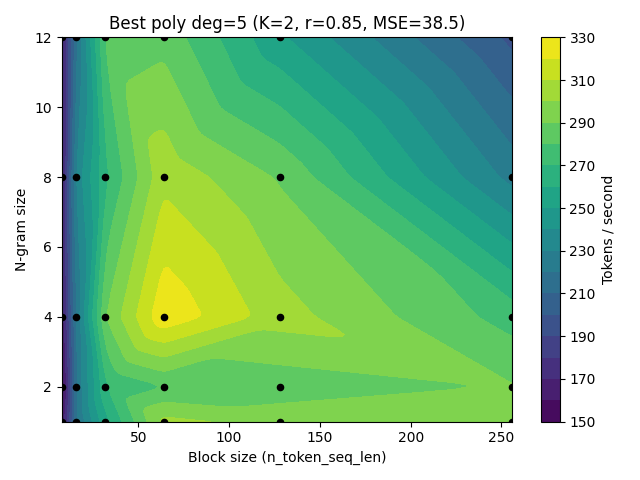
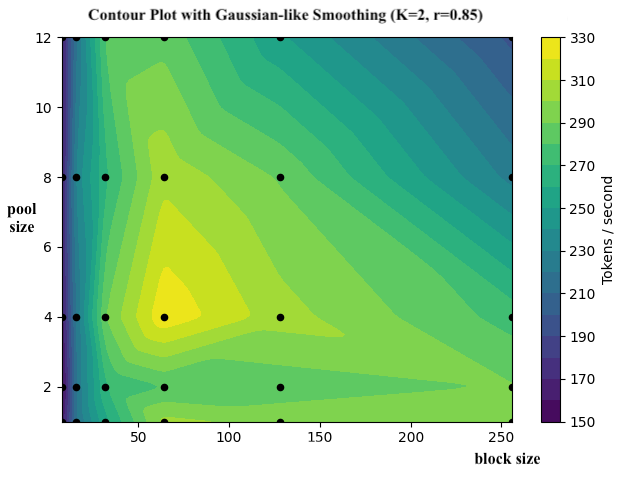
update Jacobi Forcing blog (#48)
* fix badge flex view on mobile; update people, blog

* add lmgame assets

* fix badge display on mobile

* update members: move zheyu and runlong to alumni

* update website

* update people; blog; talks summer 2025

* merge with main

* add dllm

* add d3LLM blog, project, and Yu-Yang's page (#42)

* initialize dllm blog

* almost finished leaderboard

* minor edit

* modify for phones

* fix the bug of leaderboard

* try fix bugs

* Beautify the leaderboard

* further refine figs

* modify d3llm

* Further update demo gif

* minor edit

* Shorter Method part

* further refines

* further refine figs

* minor edit

* minor refine

* further refine style

* initially finish d3llm and text-diffusion blog

* parallel-decoder -> dLLM

* minor edit

* minor edit

* further refine d3LLM's exp

* minor fig refine

* Beautify blogs

* minor edit

* Add illustration fig for d3LLM

* modify img of board

* Update fig

* Update figs

* refine multi-block decoding

* refine figs

* Refine texts

* minor edit

* minor refine

* further refine figs

* refine pseudo-traj

* Update Figs

* minor edit

* further refine pages

* Update gif figure

* minor edit of fig caption

* minor edit

* fix typos

* minor edit

* Update TPS of LLaDA

* Update on Dream's TPS

* minor edit

* Update Badges

* modify hf address

* Add subtitle

* modify subtitle

* modify subtitle

* modify leaderboard

* update figs

* update result

* Update data

* refine leaderboard
[…]

diff --git a/content/blogs/jacobi-forcing/index.md b/content/blogs/jacobi-forcing/index.md
@@ -46,7 +46,7 @@ Most existing work on faster decoding falls into two broad families:
 
 1. **Diffusion-style LLMs (dLLMs):** use non-causal, often bidirectional attention and denoising objectives to update *many* tokens in parallel.
 
-2. **speculative decoding**: keeps a causal AR backbone but relies on a draft model or extra heads that propose multiple future tokens per verification step.
+2. **Speculative decoding (SD)**: keeps a causal AR backbone but relies on a draft model or extra heads that propose multiple future tokens per verification step.
 
 Table 1 (row 2 and row 3) summarizes their pros and cons. At a high-level, dLLMs offer strong parallelism but demand expensive non-causal post-training and custom infrastructure; SD preserves AR quality but adds FLOPs and system complexity for modest net gains. Let’s dive deeper to discuss their trade-offs.
 {{< /justify >}}
@@ -118,13 +118,11 @@ Jacobi Forcing pushes this idea further: we keep the original causal attention a
 
 
 | Method        | Attention      | Parallelism                      | Training Cost | Single-model Decoding (no draft–verifier)   | Efficient KV Reuse        | Real Speedup | Generation Quality         |
-|----------------------|------------------------|-----------------------------------------------|------------------------------------|-------------------------------------------|----------------------|-------------------------------|---------------------------|
-| **AR**        | Causal | None                          | None                                            | No   |  Yes               |No            | Lossless            |
-| **SD** | Causal                 | Yes             | No to Small: Draft model FT        | $\textcolor{red}{\text{No}}$ | Yes     | $<3.5\times$ | Lossless            | 
-| **dLLMs**            | Non-causal    | Yes   | High: from scratch or heavy diffusion FT      | Yes | $\textcolor{red}{\text{No}}$ | $< 3\times$ | Low to near-AR quality |
-| **Jacobi Forcing**   | Causal                 | Yes   | Small: noise-conditioned FT on trajectories | $\textcolor{green}{\text{Yes}}$ |  $\textcolor{green}{\text{Yes}}$   |  $\sim3-4\times$    | near-AR quality   |
-
-**Table 1: Qualitative comparison of parallel decoding methods.**
+|:----------------------:|:------------------------:|:-----------------------------------------------:|:------------------------------------:|:-------------------------------------------:|:----------------------:|:-------------------------------:|:---------------------------:|
+| **AR**        | Causal | 💔                          | 🆓                                            | 😃   |  😃               | 🐢            | 🏅            |
+| **SD** | Causal                 | 😃             | 🆓/💰        | 💔 | 😃     | ⚡/⚡⚡ |      🏅       | 
+| **dLLMs**            | Non-causal    | 😃   | 💰/💰💰💰      | 😃 | 💔 | ⚡ | 🥉/🥈 |
+| **Jacobi Forcing**   | Causal                 | 😃   | 💰 | 😃 |  😃   |  ⚡⚡⚡    | 🥈/🏅   |
 
 
 
@@ -144,10 +142,11 @@ To make learning feasible for large blocks, Jacobi Forcing packs the training se
 - Arrange time steps ${t_i}$ in short cyclic windows (from nearly clean to heavily noised), so a single packed training sequence always contains a structured mixture of easy (low-noise) and hard (high-noise) denoising subproblems across blocks, rather than long stretches of uniformly high noise.
 
 
-Progressive noise schedule shortens long runs of corrupted tokens and keeps each denoising problem local and learnable, especially when scaling the block size, while still covering a rich range of noise levels within every packed sequence as illustrated in Figure 3.
+Progressive noise schedule shortens long runs of corrupted tokens and keeps each denoising problem local and learnable, especially when scaling the block size, while still covering a rich range of noise levels within every packed sequence as illustrated in Video 1.
 {{< /justify >}}
 
-{{< image src="img/noise_schedule_and_sequence_packing.gif" alt="sequence-packing-illustration" width="100%" title="Figure 3: Illustration of the training sequence packing process with an example (linear progressive) noise schedule mapping.">}}
+{{<youtube KQUiKdxHugs>}}
+{{< image src="" alt="" width="100%" title="Video 1: Illustration of the training sequence packing process with an example (linear progressive) noise schedule mapping.">}}
 
 
 ### Noisy-Context Conditioned Training
@@ -163,7 +162,7 @@ $$
 \text{ and } \mathbf y^{*}_{1:N} = (\mathbf y^{*}_1, \dots, \mathbf y^{*}_N).
 $$
 
-- Uses a **noise-conditioned causal attention mask** as shown in Figure 4 so each token:
+- Uses a **noise-conditioned causal attention mask** as shown in Figure 3 so each token:
     - Sees the prompt and earlier blocks at their assigned noise levels.
     - Knows which positions in its block are noisy or clean. 
     - Exposes the fixed-point tokens needed to compute a teacher distribution.
@@ -214,7 +213,7 @@ where $\lambda > 0$ balances progressive consistency and AR fidelity.
     alt2="noisy_context_attention_mask"
     width1="50%" 
     width2="50%" 
-    title="Figure 4: Jacobi Forcing uses the attention implementation on the right, whereas CLLMs' training doesn't involve noise conditioning and is therefore more similar to the one on the left. Both implementations allow logits from clean blocks and noisy blocks to be generated with single forward pass to calculate the progressive consistency loss and AR loss.">}}
+    title="Figure 3: Jacobi Forcing uses the attention implementation on the right, whereas CLLMs' training doesn't involve noise conditioning and is therefore more similar to the one on the left. Both implementations allow logits from clean blocks and noisy blocks to be generated with single forward pass to calculate the progressive consistency loss and AR loss.">}}
 
 
 ## Jacobi Forcing Model Inference
@@ -233,7 +232,7 @@ After training, Jacobi Forcing model is still a standard AR checkpoint, but its 
 This “stability under noisy futures” is precisely what the noise-conditioned training objective encourages and is what makes Jacobi Forcing model a strong self-speculative decoder without any extra model.
 {{< /justify >}}
 
-{{< image src="img/trajectory.png" alt="high_quality_draft_illustration" width="100%" title="Figure 5: Visualization of Jacobi Forcing model’s trajectory under vanilla Jacobi decoding. The figure shows a partial segment of the trajectory. Blue tokens denote accepted tokens that match the fixed point at their positions. Black tokens denote unconverged noisy tokens, and we highlight them in red if more than three consecutive tokens match the fixed point regardless of position.">}}
+{{< image src="img/trajectory.png" alt="high_quality_draft_illustration" width="100%" title="Figure 4: Visualization of Jacobi Forcing model’s trajectory under vanilla Jacobi decoding. The figure shows a partial segment of the trajectory. Blue tokens denote accepted tokens that match the fixed point at their positions. Black tokens denote unconverged noisy tokens, and we highlight them in red if more than three consecutive tokens match the fixed point regardless of position.">}}
 
 
 ### Multiblock decoding
@@ -251,7 +250,7 @@ To better utilize the GPU, Jacobi Forcing model employs multiblock Jacobi decodi
 ### Rejection recycling
 
 {{< justify >}}
-Jacobi Forcing model also leverages **rejection recycling** to reuse high-quality n-grams from earlier iterations as illustrated in Figure 5 to expedite convergence:
+Jacobi Forcing model also leverages **rejection recycling** to reuse high-quality n-grams from earlier iterations as illustrated in Figure 4 to expedite convergence:
 
 - Cache promising n-grams, where its first token matches the last token in the committed KV, from previous Jacobi iterations in an n-gram pool.
 - Verify those candidate n-grams in parallel along the batch dimension during the next Jacobi step. 
@@ -261,8 +260,8 @@ Jacobi Forcing model also leverages **rejection recycling** to reuse high-qualit
 Because Jacobi Forcing model’s intermediate states are much higher quality than those of the base AR model, this recycling step becomes highly effective, turning previously “wasted” speculative work into real progress.
 {{< /justify >}}
 
-
-{{< image src="img/multiblock_rejection_recycling.gif" alt="multiblock-rejection-recycling" width="100%" title="Figure 6: Illustration of multiblock Jacobi decoding with rejection recycling. High-quality n-grams from earlier iterations are reused as drafts. Up to $K$ blocks (here $K = 2$) are maintained: earlier blocks are real-active and commit tokens to the KV cache, while later pseudo-active blocks run Jacobi updates under noisy context and are only verified and committed after all preceding blocks have been finalized in the KV cache.">}}
+{{<youtube 8t3oda5gnHs>}}
+{{< image src="" alt="" width="100%" title="Video 2: Illustration of multiblock Jacobi decoding with rejection recycling. High-quality n-grams from earlier iterations are reused as drafts. Up to $K$ blocks (here $K = 2$) are maintained: earlier blocks are real-active and commit tokens to the KV cache, while later pseudo-active blocks run Jacobi updates under noisy context and are only verified and committed after all preceding blocks have been finalized in the KV cache.">}}
 
 
 ### Hardware-aware Configuration Search
@@ -283,7 +282,7 @@ In our inference algorithm, the main knobs are:
 In practice, we fix $r = 0.85$ and $K = 2$ as the heuristic optimal. The choices are constrained by training: later pseudo-active blocks must still see enough clean context to draft meaningful tokens that actually boost the acceptance rate. If we lower $r$ or increase $K$ too aggressively, later blocks are conditioned on overly noisy prefixes and tend to generate “trash” tokens that rarely get accepted, hurting both quality and speed.
 
 
-With $r$ and $K$ fixed, we then sweep over **block size** and **verification size** (Figure 7a) and find that the best tradeoff is achieved at block size $n = 64$ and verification size $= 4$. This configuration also aligns with the roofline profiling on H200 and B200 GPUs (Figure 7b), where these settings sit closest to the compute–memory roofline while keeping latency overhead modest.
+With $r$ and $K$ fixed, we then sweep over **block size** and **verification size** (Figure 5a) and find that the best tradeoff is achieved at block size $n = 64$ and verification size $= 4$. This configuration also aligns with the roofline profiling on H200 and B200 GPUs (Figure 5b), where these settings sit closest to the compute–memory roofline while keeping latency overhead modest.
 {{< /justify >}}
 
 {{< two_images
@@ -293,11 +292,11 @@ With $r$ and $K$ fixed, we then sweep over **block size** and **verification siz
     alt2="roofline"
     width1="50%"
     width2="50%"
-    title="Figure 7a (left): Roofline profiling on B200 GPUs, The 256 batched token setting sits closest to the roof “knee,” where compute and memory are both well utilized. This matches the profiling trend in Figure 7b and justifies our choice of this configuration as the default forJacobi Forcing model. Figure 7b (right): Sweep over block size and verification size (pool_size), showing the best tradeoff at block size n = 64 and verification size = 4, while fixing $r=0.85, K=2$. Contour is obtained by interpolation and Gaussian-like smoothing."
+    title="Figure 5a (left): Roofline profiling on B200 GPUs, The 256 batched token setting sits closest to the roof “knee,” where compute and memory are both well utilized. This matches the profiling trend in Figure 5b and justifies our choice of this configuration as the default forJacobi Forcing model. Figure 5b (right): Sweep over block size and verification size (pool_size), showing the best tradeoff at block size n = 64 and verification size = 4, while fixing $r=0.85, K=2$. Contour is obtained by interpolation and Gaussian-like smoothing."
 >}}
 
 {{< justify >}}
-While Figure 7 focuses on throughput in tokens-per-second (TPS), the same sweeps reveal that TPF for Jacobi Forcing scales almost monotonically as we spend more FLOPs on larger blocks and higher verification budgets. On B200, our default configuration ($n = 64$, `pool_size` = 4) already achieves a strong TPF at $4.2\times$, but pushing to a more aggressive setting with **block size $n = 256$ and verification size $= 16$** increases TPF further to **$4.57\times$**, at the cost of substantially higher per-step compute. We do not adopt this configuration as default today because, on current Blackwell-class hardware, it starts to move beyond the roofline “knee” and yields diminishing TPS gains for a given latency budget.
+While Figure 5 focuses on throughput in tokens-per-second (TPS), the same sweeps reveal that TPF for Jacobi Forcing scales almost monotonically as we spend more FLOPs on larger blocks and higher verification budgets. On B200, our default configuration ($n = 64$, `pool_size` = 4) already achieves a strong TPF at $4.2\times$, but pushing to a more aggressive setting with **block size $n = 256$ and verification size $= 16$** increases TPF further to **$4.57\times$**, at the cost of substantially higher per-step compute. We do not adopt this configuration as default today because, on current Blackwell-class hardware, it starts to move beyond the roofline “knee” and yields diminishing TPS gains for a given latency budget.
 {{< /justify >}}
 
 ### Why Jacobi Forcing Works?
@@ -311,6 +310,9 @@ In summary, Jacobi Forcing works at two levels:
 2. **Inter-trajectory (across blocks):**  Across blocks, we introduce a noise schedule where earlier blocks in a window see lighter corruption, later blocks see heavier corruption. This creates a curriculum from “denoise a few tokens” to “denoise many tokens,” making the objective much easier than asking the model to fix a fully corrupted long block in one shot. Empirically, this schedule encourages the model to produce higher-quality drafts even when conditioned on noisy futures. 
 
 Our ablation study training models on a 10k subset of data shows that linear progressive noise schedule outperforms both random and reverse progressive schedules, where **reverse progressive (putting the heaviest noise first) is clearly harmful**, leading to the slowest convergence.
+{{< /justify >}}
+
+<div style="margin: 0 auto; width: fit-content;">
 
 | Strategy            | Acc.  | iter/token |
 |---------------------|-------|-----------:|
@@ -318,7 +320,9 @@ Our ablation study training models on a 10k subset of data shows that linear pro
 | Linear Progressive  | 84.7  | **0.48**   |
 | Reverse Progressive | 82.3  | 0.62       |
 
-{{< /justify >}}
+</div>
+
+
 
 ## Experiments
 
